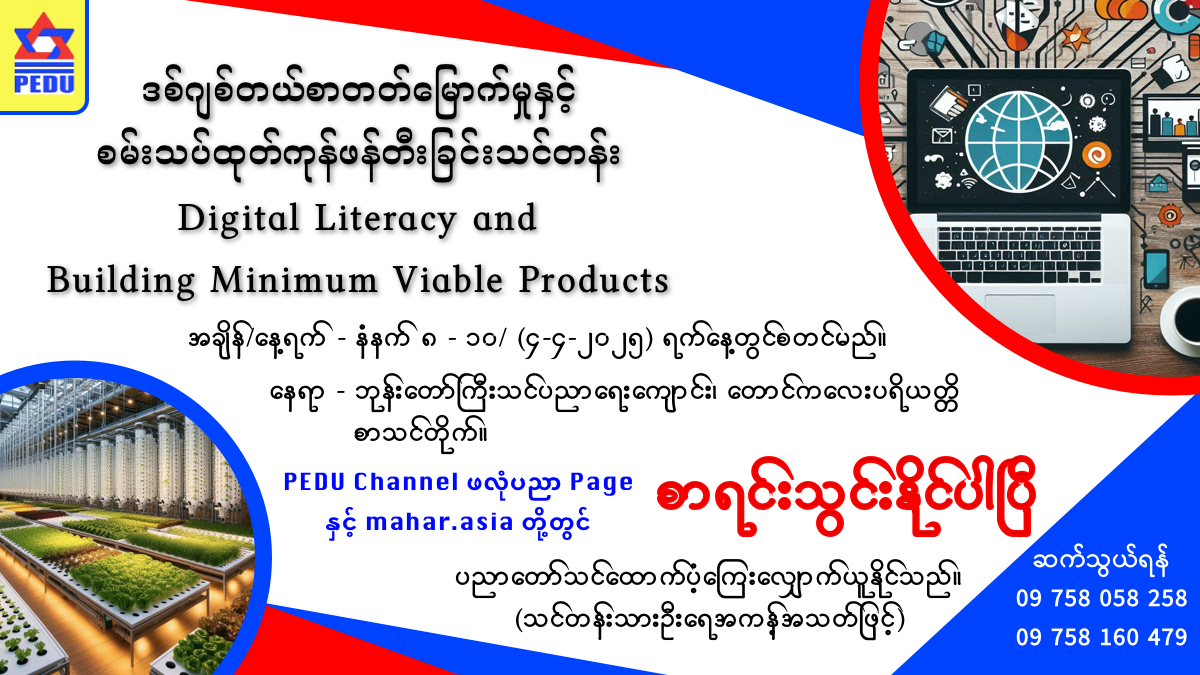
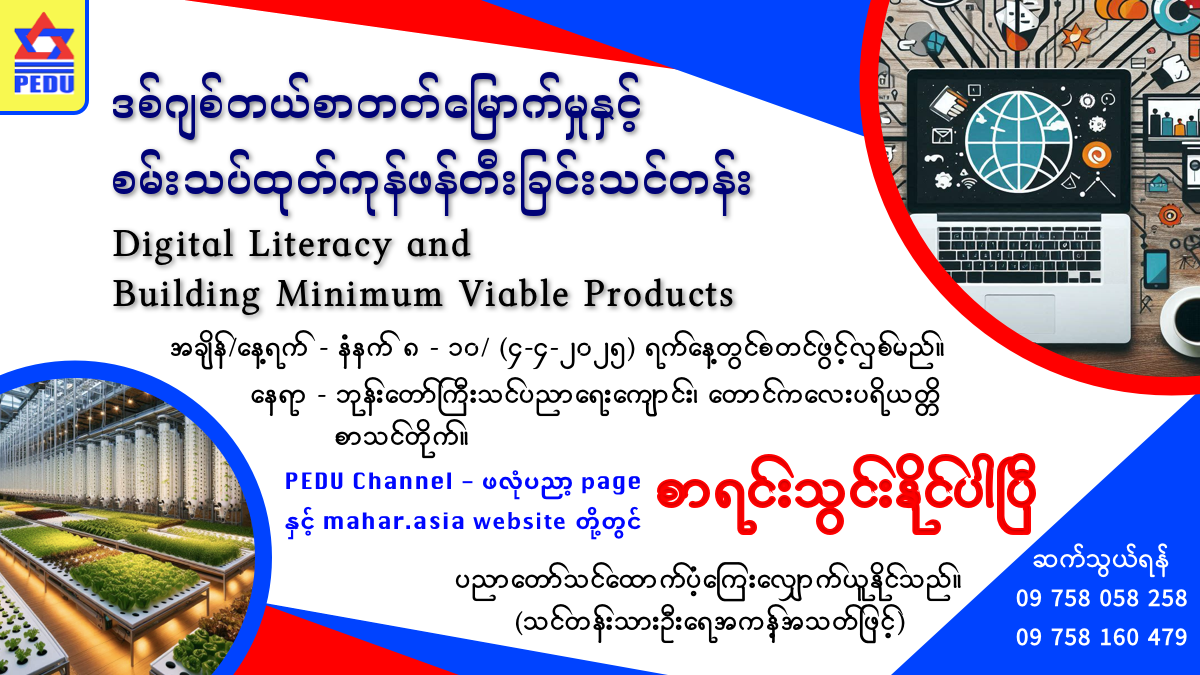
format document

Changed region(s): [[0.0308, 0.0933, 0.8633, 0.9644], [0.8325, 0.7778, 0.8633, 0.8089]]

diff --git a/index.html b/index.html
@@ -187,7 +187,8 @@
         <div class="container px-5">
             <div class="row gx-5 justify-content-center">
                 <div class="col-xl-8">
-                    <img class="announcement-img" src="img/img/digital-literacy-2025-preview.png" alt="announcement-img" />
+                    <img class="announcement-img" src="img/img/digital-literacy-2025-preview.png"
+                        alt="announcement-img" />
                 </div>
             </div>
         </div>
@@ -270,50 +271,75 @@
                                         အလယ်အလတ်အဆင့် ဒစ်ဂျစ်တယ်စွမ်းရည်များ <br> (Intermediate Digital Skills)
                                         <ul>
                                             <li>AI နည်းပညာ၏ အခြေခံနှင့် အသုံးပြုပုံများ
-                                                (Introduction to AI Technology and Its Applications)</li>
-                                            <li>AI ၏အခြေခံများနှင့် AI ကိရိယာများကို အသုံးပြုနည်းများ။
-                                                (Basics of Artificial Intelligence and how to use AI tools.)</li>
+                                                (Introduction to AI Technology and Its Applications)
+                                                <ul>
+                                                    <li>AI ၏အခြေခံများနှင့် AI ကိရိယာများကို အသုံးပြုနည်းများ။
+                                                        (Basics of Artificial Intelligence and how to use AI tools.)
+                                                    </li>
+                                                </ul>
+                                            </li>
                                             <li>လုပ်ငန်းသုံး အင်တာနက်စာမျက်နှာ သဘောတရားနှင့် ကိုယ်ပိုင် github.io
                                                 ဝဘ်ဆိုဒ်တည်ဆောက်ခြင်း
-                                                (Landing Page Concepts and Building Your Own Website)</li>
-                                            <li>Landing Page များဒီဇိုင်းဆွဲခြင်းနှင့် github.io ကို အသုံးပြု၍
-                                                ကိုယ်ပိုင်ဝဘ်ဆိုဒ် တည်ဆောက်ခြင်း။
-                                                (Designing landing pages and creating a personal website using
-                                                github.io.)</li>
+                                                (Landing Page Concepts and Building Your Own Website)<ul>
+                                                    <li>Landing Page များဒီဇိုင်းဆွဲခြင်းနှင့် github.io ကို အသုံးပြု၍
+                                                        ကိုယ်ပိုင်ဝဘ်ဆိုဒ် တည်ဆောက်ခြင်း။
+                                                        (Designing landing pages and creating a personal website using
+                                                        github.io.)</li>
+                                                </ul>
+                                            </li>
                                             <li>ဖုန်းတစ်လုံးဖြင့် အင်္ဂလိပ်စာလေ့လာခြင်း
-                                                (Using a Smartphone to Learn English) </li>
-                                            <li>Duolingo ကဲ့သို့သော အက်ပ်များကို အသုံးပြု၍ ဘာသာစကားလေ့လာခြင်း။
-                                                (Leveraging apps like Duolingo for language learning.)</li>
+                                                (Using a Smartphone to Learn English) <ul>
+                                                    <li>Duolingo ကဲ့သို့သော အက်ပ်များကို အသုံးပြု၍ ဘာသာစကားလေ့လာခြင်း။
+                                                        (Leveraging apps like Duolingo for language learning.)</li>
+                                                </ul>
+                                            </li>
                                         </ul>
                                     </li>
                                     <li>အဆင့်မြင့်စွမ်းရည်များနှင့် အနာဂတ်အတွက် အဆင်သင့်ဖြစ်စေခြင်း
                                         (Advanced Skills and Future Readiness)
                                         <ul>
                                             <li>နည်းပညာ၏ အနာဂတ်အတွက် အဆင်သင့်ပြင်ဆင်ခြင်း
-                                                (Preparing for the Future of Technology)</li>
-                                            <li>ပေါ်ထွန်းလာသော နည်းပညာများနှင့် လိုက်လျောညီထွေဖြစ်အောင် စွမ်းရည်များကို
-                                                လေ့ကျင့် ပျိုးထောင်ပေးခြင်း။
-                                                (Developing skills to adapt to emerging technologies.)</li>
-                                            <li>အွန်လိုင်းမှ ဝင်ငွေရှာခြင်း
-                                                (Generating income online)</li>
-                                            <li>Freelancing၊ Content Creation၊ E-commerce နှင့် Affiliate Marketing
-                                                ကဲ့သို့သော ဒစ်ဂျစ် တယ် ပလက်ဖောင်းများမှ တစ်ဆင့်ဝင်ငွေရှာရန်
-                                                တရားဝင်နည်းလမ်းများကို လေ့လာခြင်း။ ထုတ်ကုန်များရောင်းခြင်း၊
-                                                ဝန်ဆောင်မှုများပေးခြင်း သို့မဟုတ် အွန်လိုင်းသင်တန်းများ
-                                                ဖန်တီးခြင်းကဲ့သို့ အွန်လိုင်းဝင်ငွေ အခွင့်အလမ်းများကို လေ့လာခြင်း။
-                                                (Explore legitimate ways to earn money through digital platforms, such
-                                                as freelancing, content creation, e-commerce, and affiliate marketing.
-                                                From selling products to offering skills or creating online courses,
-                                                there are diverse opportunities to build a sustainable online income.)
+                                                (Preparing for the Future of Technology)<ul>
+                                                    <li>ပေါ်ထွန်းလာသော နည်းပညာများနှင့် လိုက်လျောညီထွေဖြစ်အောင်
+                                                        စွမ်းရည်များကို
+                                                        လေ့ကျင့် ပျိုးထောင်ပေးခြင်း။
+                                                        (Developing skills to adapt to emerging technologies.)</li>
+                                                </ul>
                                             </li>
+
+                                            <li>အွန်လိုင်းမှ ဝင်ငွေရှာခြင်း
+                                                (Generating income online)<ul>
+                                                    <li>Freelancing၊ Content Creation၊ E-commerce နှင့် Affiliate
+                                                        Marketing
+                                                        ကဲ့သို့သော ဒစ်ဂျစ် တယ် ပလက်ဖောင်းများမှ တစ်ဆင့်ဝင်ငွေရှာရန်
+                                                        တရားဝင်နည်းလမ်းများကို လေ့လာခြင်း။ ထုတ်ကုန်များရောင်းခြင်း၊
+                                                        ဝန်ဆောင်မှုများပေးခြင်း သို့မဟုတ် အွန်လိုင်းသင်တန်းများ
+                                                        ဖန်တီးခြင်းကဲ့သို့ အွန်လိုင်းဝင်ငွေ အခွင့်အလမ်းများကို
+                                                        လေ့လာခြင်း။
+                                                        (Explore legitimate ways to earn money through digital
+                                                        platforms, such
+                                                        as freelancing, content creation, e-commerce, and affiliate
+                                                        marketing.
+                                                        From selling products to offering skills or creating online
+                                                        courses,
+                                                        there are diverse opportunities to build a sustainable online
+                                                        income.)
+                                                    </li>
+                                                </ul>
+                                            </li>
+
                                             <li>အင်တာနက်မှ အချက်အလက်များ ရှာဖွေလေ့လာပြီး
                                                 ကိုယ်ပိုင်ပရောဂျက်များ/စမ်းသပ်ထုတ်ကုန်များ ဖန်တီးခြင်း
                                                 (Conducting Online Research and Creating Personal Projects and MVP’s)
+                                                <ul>
+                                                    <li>အင်တာနက်ကို အသုံးပြု၍ အချက်အလက်များရှာဖွေခြင်းနှင့်
+                                                        ကိုယ်ပိုင်ပရောဂျက်များနှင့် စမ်းသပ်ထုတ်ကုန်များ ဖန်တီးခြင်း။
+                                                        (Using the internet to gather information and develop your own
+                                                        projects
+                                                        and MVP’s)</li>
+                                                </ul>
                                             </li>
-                                            <li>အင်တာနက်ကို အသုံးပြု၍ အချက်အလက်များရှာဖွေခြင်းနှင့်
-                                                ကိုယ်ပိုင်ပရောဂျက်များနှင့် စမ်းသပ်ထုတ်ကုန်များ ဖန်တီးခြင်း။
-                                                (Using the internet to gather information and develop your own projects
-                                                and MVP’s)</li>
+
                                         </ul>
                                     </li>
                                 </ol>
@@ -629,7 +655,7 @@
                     <p class="lead fw-normal mb-5 mb-lg-0"><i>
                             <ul>
                                 <li>နံနက် ၈ - ၁၀</li>
-                                <li>(၂-၄-၂၀၂၅) ရက်နေ့တွင် စတင်သင်ကြားပို့ချပြီး (၂၀-၅-၂၀၂၅) ရက်နေ့တွင်ပြီးစီးမည်။</li>
+                                <li>(၄-၄-၂၀၂၅) ရက်နေ့တွင် စတင်သင်ကြားပို့ချပြီး (၂၀-၅-၂၀၂၅) ရက်နေ့တွင်ပြီးစီးမည်။</li>
                                 <li>သင်တန်းနားရက် - ဥပုသ်နေ့</li>
                             </ul>
                         </i>
@@ -642,7 +668,7 @@
                     <p class="lead fw-normal mb-5 mb-lg-0"><i>
                             <ul>
                                 <li>ဘုန်းတော်ကြီးသင်ပညာရေးကျောင်း၊ <br>
-                                    တောင်ကလေးပရိယတ္တိစာသင်တိုက်။ </li>
+                                    တောင်ကလေးပရိယတ္တိစာသင်တိုက်၊ ဘားအံမြို့နယ်၊ ကရင်ပြည်နယ်။ </li>
                                 <li>ဆက်သွယ်ရန် -
                                     <br>
                                     <a href="tel:09758058258">09 758 058 258</a>
@@ -694,14 +720,14 @@
                     Nurse by <a href="http://www.nyphotographic.com/">Nick Youngson</a> <a rel="license"
                         href="https://creativecommons.org/licenses/by-sa/3.0/">CC BY-SA 3.0</a> <a
                         href="http://pix4free.org/">Pix4free</a> -->
-                <a>Photo Credit: 
+                <a>Photo Credit:
                     CDC South Aquaponics Raft Tank 1 2010-07-17 by <a
                         href="https://commons.wikimedia.org/wiki/File:CDC_South_Aquaponics_Raft_Tank_1_2010-07-17.jpg">Bryghtknyght</a>,
                     <a href="https://creativecommons.org/licenses/by/3.0">CC BY 3.0</a>, via Wikimedia Commons</a>
 
 
-                    <!-- <span class="mx-1">&middot;</span> -->
-                    <!-- <a href="#!">Terms</a>
+                <!-- <span class="mx-1">&middot;</span> -->
+                <!-- <a href="#!">Terms</a>
                     <span class="mx-1">&middot;</span>
                     <a href="#!">FAQ</a> -->
             </div>
